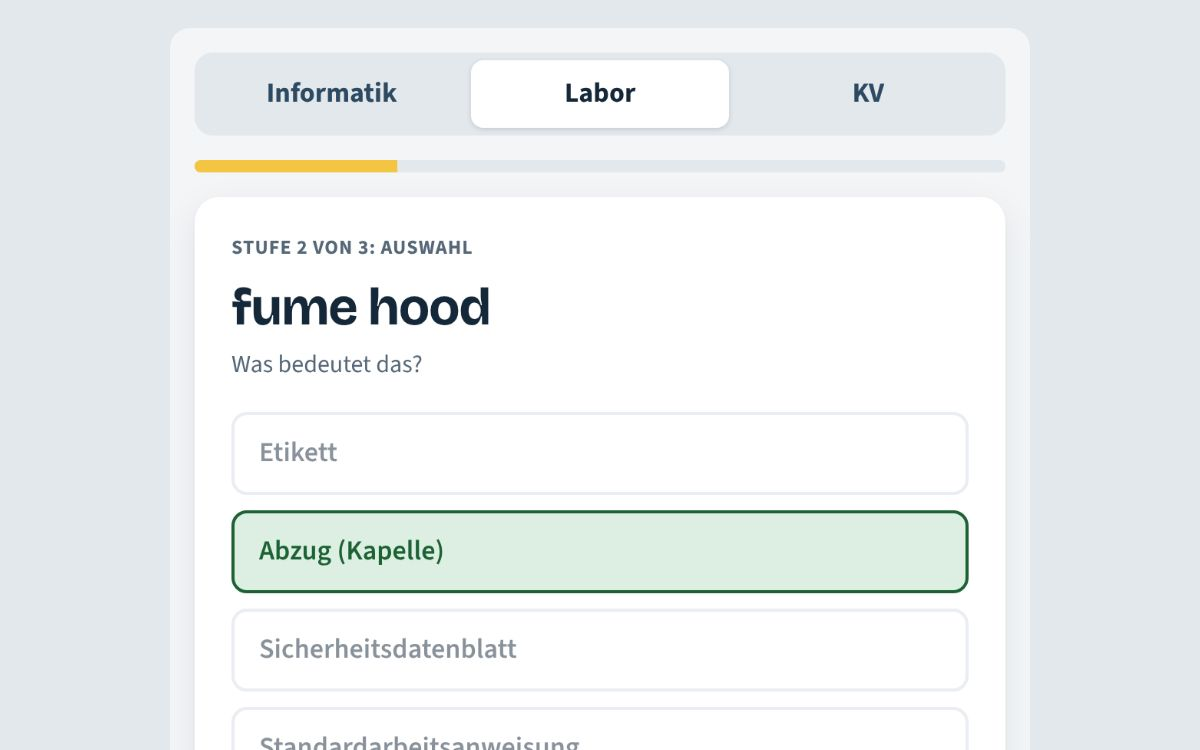
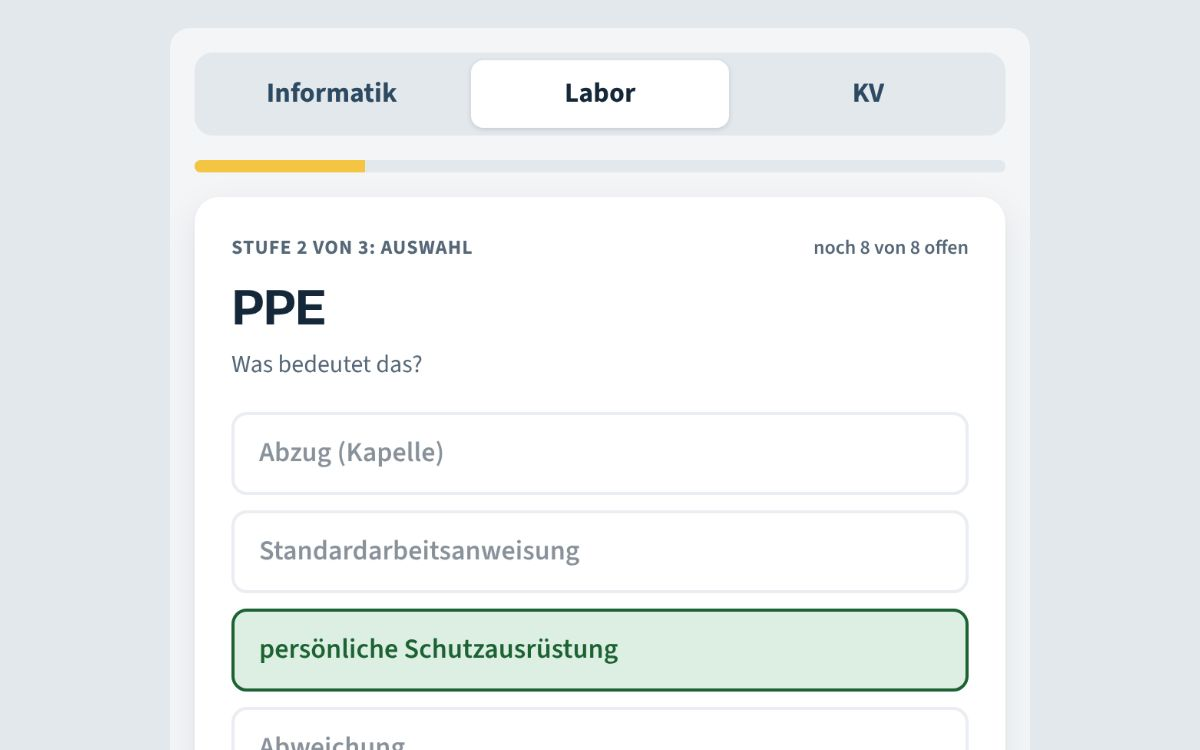
Roche-Seite: Prototypen nach Lernenden-Test korrigiert, vier Ideen
Claude-Session: https://claude.ai/code/session_014XkfFDuSjJmJmkreTr4ADN

diff --git a/roche/fachbegriffe.html b/roche/fachbegriffe.html
@@ -19,13 +19,14 @@ h1{font-family:"Bricolage Grotesque",sans-serif;font-size:28px;margin:0 0 4px;le
 .bar{height:8px;background:#E3E8ED;border-radius:99px;overflow:hidden;margin-bottom:16px}
 .bar i{display:block;height:100%;background:var(--signal);width:0;transition:width .3s}
 .card{background:var(--white);border-radius:16px;padding:24px;box-shadow:0 1px 2px rgba(21,40,58,.06),0 8px 24px rgba(21,40,58,.08)}
-.stage{font-size:13px;font-weight:700;color:var(--muted);letter-spacing:.04em;text-transform:uppercase;margin-bottom:10px}
+.stage{display:flex;justify-content:space-between;gap:12px;flex-wrap:wrap;font-size:13px;font-weight:700;color:var(--muted);letter-spacing:.04em;text-transform:uppercase;margin-bottom:10px}
 .term{font-family:"Bricolage Grotesque",sans-serif;font-size:34px;line-height:1.1;margin:0 0 8px;letter-spacing:-.02em;overflow-wrap:anywhere;outline:none}
 .hint{color:var(--muted);font-size:16px;margin:0 0 18px}
 .opts{display:grid;gap:10px}
 button{font:inherit}
 .opt{text-align:left;padding:12px 16px;border-radius:10px;border:2px solid var(--line);background:var(--white);color:var(--ink);cursor:pointer;font-weight:600}
-.opt:hover:not(:disabled){border-color:var(--ink)}
+@media (hover:hover){.opt:hover:not(:disabled){border-color:var(--ink)}}
+.stage .left{text-transform:none;letter-spacing:0;font-weight:600}
 .opt:disabled{cursor:default;color:var(--ink)}
 .opt:disabled:not(.ok):not(.bad){opacity:.5}
 .opt.ok{background:var(--ok-bg);border-color:var(--ok);color:var(--ok)}
@@ -60,52 +61,52 @@ input[type=text]:focus{outline:3px solid var(--signal);border-color:var(--ink)}
   </div>
   <div class="bar" aria-hidden="true"><i id="bar"></i></div>
   <div class="card" id="card" aria-live="polite"></div>
-  <p class="note">Beispielinhalt für die Idee. Die Begriffe würde ich gemeinsam mit den Berufsbildnerinnen und Berufsbildnern auswählen. Am besten mit Ton.</p>
+  <p class="note">Unabhängiger Prototyp mit Beispielinhalt, nicht von Roche. Die Begriffe würde ich gemeinsam mit den Berufsbildnerinnen und Berufsbildnern auswählen. Am besten mit Ton.</p>
 </div>
 <script>
 (function(){
   if(location.search.indexOf('embed')>-1)document.documentElement.classList.add('embed');
   var SETS={
     it:[
-      ["requirement","Anforderung","The customer added a new requirement for the login page."],
-      ["bug","Programmfehler","We found a bug in the payment form."],
-      ["to deploy","eine Anwendung bereitstellen","We deploy the new version every Monday."],
-      ["repository","zentrale Ablage für Code und seine Versionen","The code is stored in a shared repository."],
-      ["user story","Wunsch aus Sicht der Nutzenden","Each user story describes what a user needs."],
-      ["to troubleshoot","einen Fehler eingrenzen und beheben","First, try to troubleshoot the network connection."],
-      ["backup","Datensicherung","We make a backup every night."],
-      ["password reset","Passwort zurücksetzen","The user asked for a password reset."]
+      ["requirement","Anforderung","The customer added a new requirement for the login page.",[],"req"],
+      ["bug","Programmfehler","We found a bug in the payment form.",[],"err"],
+      ["to deploy","eine Anwendung bereitstellen","We deploy the new version every Monday.",[]],
+      ["repository","zentrale Ablage für Code und seine Versionen","The code is stored in a shared repository.",["repo"]],
+      ["user story","Wunsch aus Sicht der Nutzenden","Each user story describes what a user needs.",[],"req"],
+      ["to troubleshoot","einen Fehler eingrenzen und beheben","First, try to troubleshoot the network connection.",[],"err"],
+      ["backup","Datensicherung","We make a backup every night.",[]],
+      ["password reset","Passwort zurücksetzen","The user asked for a password reset.",["reset password"]]
     ],
     lab:[
-      ["sample","Probe","Please label each sample before you store it."],
-      ["fume hood","Abzug (Kapelle)","Work with solvents only under the fume hood."],
-      ["deviation","Abweichung","Report every deviation to your supervisor."],
-      ["batch record","Chargenprotokoll","All steps are documented in the batch record."],
-      ["SOP","Standardarbeitsanweisung","Follow the SOP step by step."],
-      ["safety data sheet","Sicherheitsdatenblatt","Check the safety data sheet before you start."],
-      ["PPE","persönliche Schutzausrüstung","Put on your PPE before you enter the lab."],
-      ["label","Etikett","The label shows the date and your initials."]
+      ["sample","Probe","Please label each sample before you store it.",["specimen"]],
+      ["fume hood","Abzug (Kapelle)","Work with solvents only in the fume hood.",[]],
+      ["deviation","Abweichung","Report every deviation to your supervisor.",[]],
+      ["lab notebook","Laborjournal","Write every result in your lab notebook.",["laboratory notebook","lab journal"]],
+      ["SOP","Standardarbeitsanweisung","Follow the SOP step by step.",["standard operating procedure"]],
+      ["safety data sheet","Sicherheitsdatenblatt","Check the safety data sheet before you start.",["sds"]],
+      ["PPE","persönliche Schutzausrüstung","Put on your PPE before you enter the lab.",["personal protective equipment"]],
+      ["label","Etikett","The label shows the date and your initials.",[]]
     ],
     kv:[
-      ["invoice","Rechnung","The invoice is due in 30 days."],
-      ["purchase order","Bestellung","Please create a purchase order for the new chairs."],
-      ["meeting minutes","Sitzungsprotokoll","Please send the meeting minutes to the team."],
-      ["deadline","Frist","The deadline for the report is Friday."],
-      ["approval","Freigabe","The order needs approval from the team lead."],
-      ["supplier","Lieferant","We compared offers from three suppliers."],
-      ["cost centre","Kostenstelle","Which cost centre should I book this on?","cost center"],
-      ["attachment","Anhang","You will find the offer in the attachment."]
+      ["invoice","Rechnung","The invoice is due in 30 days.",["bill"]],
+      ["purchase order","Bestellung","Please create a purchase order for the new chairs.",["order","po"]],
+      ["meeting minutes","Sitzungsprotokoll","Please send the meeting minutes to the team.",["minutes"]],
+      ["deadline","Frist","The deadline for the report is Friday.",[]],
+      ["approval","Freigabe","The order needs approval from the team lead.",[]],
+      ["supplier","Lieferant","We compared offers from three suppliers.",["vendor"]],
+      ["cost centre","Kostenstelle","Which cost centre should I charge this to?",["cost center"]],
+      ["attachment","Anhang","You will find the offer in the attachment.",[]]
     ]
   };
   var STAGES=["Karte","Auswahl","Schreiben"];
   var card=document.getElementById('card'),bar=document.getElementById('bar');
-  var job='it',deck=[],current=null,lastId=-1,set=[];
+  var job='',decks={},deck=[],current=null,lastId=-1,set=[],shownAt=0;
   function say(t){try{var u=new SpeechSynthesisUtterance(t);u.lang='en-GB';u.rate=.95;speechSynthesis.cancel();speechSynthesis.speak(u)}catch(e){}}
-  function norm(s){return s.trim().toLowerCase().replace(/\s+/g,' ').replace(/^to /,'').replace(/-/g,' ')}
+  function norm(s){return s.trim().toLowerCase().replace(/^to\s+/,'').replace(/[^a-z0-9äöü]/g,'')}
   function dist(a,b){var m=[],i,j;for(i=0;i<=a.length;i++){m[i]=[i]}for(j=0;j<=b.length;j++){m[0][j]=j}for(i=1;i<=a.length;i++)for(j=1;j<=b.length;j++)m[i][j]=Math.min(m[i-1][j]+1,m[i][j-1]+1,m[i-1][j-1]+(a[i-1]===b[j-1]?0:1));return m[a.length][b.length]}
   function stems(s){return s.toLowerCase().split(/[^a-zäöüé]+/).filter(function(w){return w.length>=5}).map(function(w){return w.slice(0,5)})}
   function shuffle(a){return a.map(function(x){return [Math.random(),x]}).sort(function(p,q){return p[0]-q[0]}).map(function(p){return p[1]})}
-  function start(j){job=j;set=SETS[j];deck=set.map(function(w,i){return {en:w[0],de:w[1],ex:w[2],alt:w[3],lvl:0,id:i}});lastId=-1;next(true)}
+  function start(j,fresh){if(j===job&&!fresh)return;job=j;set=SETS[j];if(fresh||!decks[j])decks[j]=set.map(function(w,i){return {en:w[0],de:w[1],ex:w[2],alt:w[3]||[],grp:w[4]||null,lvl:0,id:i}});deck=decks[j];lastId=-1;next(true)}
   function progress(){var s=deck.reduce(function(a,c){return a+c.lvl},0);bar.style.width=Math.round(s/(deck.length*3)*100)+'%'}
   function pick(){
     var open=deck.filter(function(c){return c.lvl<3});if(!open.length)return null;
@@ -115,8 +116,9 @@ input[type=text]:focus{outline:3px solid var(--signal);border-color:var(--ink)}
     return pool[Math.floor(Math.random()*pool.length)];
   }
   function next(noFocus){progress();current=pick();if(!current)return done();lastId=current.id;[showCard,showChoice,showWrite][current.lvl]();if(!noFocus){var t=card.querySelector('.term');if(t&&current.lvl<2)t.focus()}post()}
-  function head(){return '<div class="stage">Stufe '+(current.lvl+1)+' von 3: '+STAGES[current.lvl]+'</div>'}
+  function head(){var open=deck.filter(function(c){return c.lvl<3}).length;return '<div class="stage"><span>Stufe '+(current.lvl+1)+' von 3: '+STAGES[current.lvl]+'</span><span class="left">noch '+open+' von '+deck.length+' offen</span></div>'}
   function later(id){setTimeout(function(){var el=document.getElementById(id);if(el)el.focus()},0)}
+  function onNext(){var b=document.getElementById('nx');shownAt=Date.now();b.onclick=function(){if(Date.now()-shownAt<450)return;next()}}
   function showCard(){
     card.innerHTML=head()+'<p class="term" tabindex="-1">'+current.en+'</p><p class="hint">'+current.ex+'</p><div class="row"><button class="btn ghost" id="sp">Anhören</button><button class="btn" id="rv">Bedeutung zeigen</button></div><div class="feedback" id="fb"></div>';
     document.getElementById('sp').onclick=function(){say(current.en)};
@@ -124,37 +126,41 @@ input[type=text]:focus{outline:3px solid var(--signal);border-color:var(--ink)}
   }
   function showChoice(){
     var own=stems(current.de);
-    var others=shuffle(set.map(function(w){return w[1]}).filter(function(d){return d!==current.de&&!stems(d).some(function(s){return own.indexOf(s)>-1})})).slice(0,3);
+    var others=shuffle(set.filter(function(w){return w[1]!==current.de&&!(current.grp&&w[4]===current.grp)&&!stems(w[1]).some(function(s){return own.indexOf(s)>-1})}).map(function(w){return w[1]})).slice(0,3);
     var opts=shuffle(others.concat([current.de]));
     card.innerHTML=head()+'<p class="term" tabindex="-1">'+current.en+'</p><p class="hint">Was bedeutet das?</p><div class="opts">'+opts.map(function(o){return '<button class="opt">'+o+'</button>'}).join('')+'</div><div class="feedback" id="fb"></div>';
     [].forEach.call(card.querySelectorAll('.opt'),function(b){b.onclick=function(){
       var ok=b.textContent===current.de;[].forEach.call(card.querySelectorAll('.opt'),function(x){x.disabled=true;if(x.textContent===current.de)x.classList.add('ok')});
       if(!ok)b.classList.add('bad');
       var fb=document.getElementById('fb');fb.className='feedback '+(ok?'ok':'bad');fb.innerHTML=(ok?'Richtig.':'Noch nicht. Richtig ist: '+current.de)+'<div class="ex">'+current.ex+'</div><div class="row"><button class="btn" id="nx">Weiter</button></div>';
-      current.lvl=ok?2:0;document.getElementById('nx').onclick=function(){next()};later('nx');post();
+      current.lvl=ok?2:0;onNext();later('nx');post();
     }});
   }
   function showWrite(){
-    card.innerHTML=head()+'<p class="term">'+current.de+'</p><p class="hint">Schreib den englischen Begriff.</p><input type="text" id="in" autocomplete="off" autocapitalize="off" spellcheck="false" aria-label="Englischer Begriff"><div class="row"><button class="btn" id="ck">Prüfen</button><button class="btn ghost" id="tip">Tipp</button></div><div class="feedback" id="fb"></div>';
+    var tries=0;
+    card.innerHTML=head()+'<p class="term">'+current.de+'</p><p class="hint" id="wh">Schreib den englischen Begriff.</p><input type="text" id="in" autocomplete="off" autocapitalize="off" spellcheck="false" aria-label="Englischer Begriff" aria-describedby="wh"><div class="row"><button class="btn" id="ck">Prüfen</button><button class="btn ghost" id="tip">Tipp</button></div><div class="feedback" id="fb"></div>';
     var inp=document.getElementById('in');later('in');
-    document.getElementById('tip').onclick=function(){var w=norm(current.en);inp.placeholder=w.charAt(0)+'… ('+w.length+' Zeichen)';inp.focus()};
+    document.getElementById('tip').onclick=function(){var w=current.en.replace(/^to /,'');var n=w.replace(/[^A-Za-z]/g,'').length;document.getElementById('wh').textContent='Tipp: beginnt mit «'+w.charAt(0)+'», '+n+' Buchstaben'+(/ /.test(w)?', zwei Wörter':'')+'.';inp.focus()};
     function check(){
       if(inp.disabled)return;
-      var v=norm(inp.value),target=norm(current.en),alt=current.alt?norm(current.alt):null;
-      var ok=v===target||v===alt,d=dist(v,target),near=!ok&&v.length>2&&d<=2;
-      var fb=document.getElementById('fb');fb.className='feedback '+(ok?'ok':near?'mid':'bad');
-      fb.innerHTML=(ok?'Richtig.':near?'Fast. Richtig geschrieben: '+current.en:'Noch nicht. Richtig ist: '+current.en)+'<div class="ex">'+current.ex+'</div><div class="row"><button class="btn" id="nx">Weiter</button></div>';
-      say(current.en);current.lvl=ok?3:1;inp.disabled=true;document.getElementById('ck').disabled=true;
-      document.getElementById('nx').onclick=function(){next()};later('nx');post();
+      var v=norm(inp.value);if(!v){inp.focus();return}
+      var target=norm(current.en),ok=v===target||current.alt.some(function(a){return norm(a)===v});
+      var limit=target.length<=5?1:2,near=!ok&&dist(v,target)<=limit;
+      var fb=document.getElementById('fb');
+      if(near&&tries===0){tries++;fb.className='feedback mid';fb.textContent='Fast. Schau die Schreibweise nochmals an.';inp.select();post();return}
+      fb.className='feedback '+(ok?'ok':'bad');
+      fb.innerHTML=(ok?'Richtig.':'Noch nicht. Richtig ist: '+current.en)+'<div class="ex">'+current.ex+'</div><div class="row"><button class="btn" id="nx">Weiter</button></div>';
+      say(current.en);current.lvl=ok?3:1;inp.disabled=true;document.getElementById('ck').disabled=true;document.getElementById('tip').disabled=true;
+      onNext();later('nx');post();
     }
     document.getElementById('ck').onclick=check;
     inp.onkeydown=function(e){if(e.key==='Enter'){e.preventDefault();check()}};
   }
-  function done(){progress();card.innerHTML='<div class="done"><h2 tabindex="-1" id="dh">Runde geschafft</h2><p>Alle acht Begriffe sitzen. In der echten Version kämen sie nach einigen Tagen zur Wiederholung zurück, und die Lernenden sähen ihren Fortschritt über mehrere Wochen.</p><div class="row"><button class="btn" id="again">Neue Runde</button></div></div>';document.getElementById('again').onclick=function(){start(job)};later('dh');post()}
+  function done(){progress();card.innerHTML='<div class="done"><h2 tabindex="-1" id="dh">Runde geschafft</h2><p>Alle acht Begriffe sitzen. In der echten Version kämen sie nach einigen Tagen zur Wiederholung zurück, und die Lernenden sähen ihren Fortschritt über mehrere Wochen.</p><div class="row"><button class="btn" id="again">Neue Runde</button></div></div>';document.getElementById('again').onclick=function(){start(job,true)};later('dh');post()}
   [].forEach.call(document.querySelectorAll('.job'),function(b){b.onclick=function(){[].forEach.call(document.querySelectorAll('.job'),function(x){x.setAttribute('aria-pressed',String(x===b))});start(b.dataset.job)}});
   function post(){try{parent.postMessage({protoH:Math.ceil(document.querySelector('.wrap').getBoundingClientRect().height)},'*')}catch(e){}}
   if(window.ResizeObserver)new ResizeObserver(post).observe(document.body);
-  start('it');
+  start('it',true);
 })();
 </script>
 </body>

diff --git a/roche/ki-check.html b/roche/ki-check.html
@@ -21,7 +21,7 @@ h1{font-family:"Bricolage Grotesque",sans-serif;font-size:28px;margin:0 0 4px;le
 button{font:inherit}
 .opt{padding:14px 12px;border-radius:10px;border:2px solid var(--line);background:var(--white);color:var(--ink);cursor:pointer;font-weight:700;text-align:center}
 .opt small{display:block;font-weight:400;color:var(--muted);font-size:14px;margin-top:2px}
-.opt:hover:not(:disabled){border-color:var(--ink)}
+@media (hover:hover){.opt:hover:not(:disabled){border-color:var(--ink)}}
 .opt:disabled{cursor:default;color:var(--ink)}
 .opt:disabled:not(.ok):not(.bad){opacity:.5}
 .opt.ok{background:var(--ok-bg);border-color:var(--ok);color:var(--ok)}
@@ -40,23 +40,24 @@ button{font:inherit}
 <body>
 <div class="wrap">
   <h1>KI-Check für Lernende</h1>
-  <p class="sub">Prototyp: Darf ich hier KI nutzen? Sieben Situationen aus dem Alltag in der Lehre, jeweils mit kurzer Begründung.</p>
+  <p class="sub">Prototyp: Darf ich hier KI nutzen? Acht Situationen aus dem Alltag in der Lehre, jeweils mit kurzer Begründung.</p>
   <div class="card" id="card" aria-live="polite"></div>
-  <p class="note">Beispielinhalt für die Idee. Die verbindlichen Regeln würden aus den Richtlinien des Betriebs übernommen.</p>
+  <p class="note">Unabhängiger Prototyp mit Beispielinhalt, nicht von Roche. Die verbindlichen Regeln würden aus den Richtlinien des Betriebs übernommen.</p>
 </div>
 <script>
 (function(){
   if(location.search.indexOf('embed')>-1)document.documentElement.classList.add('embed');
   var C=[
-    ["Du sollst einen Fehler in deinem Code finden. Du lässt dir von der KI erklären, was die Fehlermeldung bedeutet.","ja","Gute Nutzung. Du lässt dir etwas erklären und behebst den Fehler danach selbst. So lernst du dabei."],
-    ["Du kopierst eine Liste mit Namen und Personalnummern von Mitarbeitenden in einen öffentlichen KI-Chat, um sie sortieren zu lassen.","nein","Personendaten und interne Daten gehören nicht in öffentliche KI-Werkzeuge. Für solche Aufgaben gibt es die Werkzeuge, die der Betrieb freigegeben hat."],
-    ["Die KI berechnet dir eine Verdünnungsreihe. Du überträgst die Werte direkt ins Laborjournal.","teil","Die KI kann dir den Rechenweg zeigen. Die Werte rechnest du aber selbst nach, bevor sie ins Journal kommen. Für das, was im Laborjournal steht, bist du verantwortlich."],
+    ["Du lässt dir von der KI erklären, was eine Fehlermeldung allgemein bedeutet. Deinen Code kopierst du nicht hinein.","ja","Gute Nutzung. Du verstehst die Meldung und behebst den Fehler danach selbst. So lernst du dabei."],
+    ["Du kopierst eine Liste mit Namen und Personalnummern von Mitarbeitenden in einen öffentlichen KI-Chat, um sie sortieren zu lassen.","nein","Personaldaten bearbeitest du nur mit Berechtigung, und in einen öffentlichen KI-Chat gehören sie nie. Zum Sortieren reicht eine Tabelle."],
+    ["Du willst dir einen Abschnitt aus dem Code deines Teams erklären lassen. Der Betrieb hat dafür ein KI-Werkzeug freigegeben.","teil","Das freigegebene Werkzeug ist der richtige Ort. Kläre aber zuerst, ob dieser Code dort verwendet werden darf. Im Zweifel fragst du nach."],
+    ["Du lässt dir von der KI eine Verdünnungsreihe berechnen und willst die Werte ins Laborjournal eintragen.","nein","Im Laborjournal steht nur, was du nach SOP selbst gerechnet und gemessen hast. Die KI darf dir vorher erklären, wie eine Verdünnungsreihe funktioniert."],
+    ["Du übst für eine Prüfung in der Berufsfachschule und lässt dir von der KI zehn Übungsfragen stellen.","ja","Sehr gut. Die KI als Übungspartnerin hilft beim Lernen. Prüf aber die Antworten, auch KI macht Fehler."],
     ["Für die Lerndokumentation schreibt die KI deinen ganzen Wochenbericht.","nein","Die Lerndokumentation zeigt, was du gelernt hast. Wenn die KI sie schreibt, zeigt sie das nicht mehr. Ideen sammeln oder die Rechtschreibung prüfen lassen ist in Ordnung."],
-    ["Du übst für eine Prüfung in der Berufsfachschule und lässt dir von der KI zehn Übungsfragen stellen.","ja","Sehr gut. Die KI als Übungspartnerin hilft beim Lernen. Prüfe aber die Antworten, auch KI macht Fehler."],
-    ["Die KI schlägt eine Lösung vor, die du nicht verstehst. Du gibst sie trotzdem ab, weil sie funktioniert.","nein","Funktionieren reicht nicht. Lass dir die Lösung Schritt für Schritt erklären, bis du sie selbst erklären kannst. Erst dann gibst du sie ab."],
-    ["Du schreibst eine E-Mail an ein Projektteam im Ausland. Mit dem KI-Werkzeug, das der Betrieb freigegeben hat, übersetzt du sie ins Englische und liest sie vor dem Senden durch.","ja","In Ordnung. Du nutzt ein freigegebenes Werkzeug und bleibst für den Inhalt verantwortlich. Darum ist das Durchlesen vor dem Senden wichtig."]
+    ["Du schreibst eine E-Mail an ein Projektteam im Ausland. Mit dem KI-Werkzeug, das der Betrieb freigegeben hat, übersetzt du sie ins Englische und liest sie vor dem Senden durch.","ja","In Ordnung. Du nutzt ein freigegebenes Werkzeug und bleibst für den Inhalt verantwortlich. Darum ist das Durchlesen vor dem Senden wichtig."],
+    ["Die KI schlägt eine Lösung vor, die du nicht verstehst. Du gibst sie trotzdem ab, weil sie funktioniert.","nein","Funktionieren reicht nicht. Lass dir die Lösung Schritt für Schritt erklären, bis du sie selbst erklären kannst. Erst dann gibst du sie ab."]
   ];
-  var L={ja:["Ja","sinnvoll"],teil:["Mit Vorsicht","nur teilweise"],nein:["Nein","nicht erlaubt"]};
+  var L={ja:["Ja","passt so"],teil:["Mit Vorsicht","nur unter Bedingungen"],nein:["Nein","so nicht"]};
   var i=0,score=0,card=document.getElementById('card');
   function later(id){setTimeout(function(){var el=document.getElementById(id);if(el)el.focus()},0)}
   function show(focus){
@@ -68,7 +69,7 @@ button{font:inherit}
       [].forEach.call(card.querySelectorAll('.opt'),function(x){x.disabled=true;if(x.dataset.k===c[1])x.classList.add('ok')});
       if(!ok)b.classList.add('bad');
       document.getElementById('fb').innerHTML='<b>'+(ok?'Richtig eingeschätzt.':'Besser: '+L[c[1]][0]+'.')+'</b>'+c[2]+'<br><button class="btn" id="nx">Weiter</button>';
-      document.getElementById('nx').onclick=function(){i++;show(true)};later('nx');post();
+      var t0=Date.now();document.getElementById('nx').onclick=function(){if(Date.now()-t0<450)return;i++;show(true)};later('nx');post();
     }});
     if(focus)later('cs');post();
   }

diff --git a/roche/index.html b/roche/index.html
@@ -275,10 +275,12 @@ footer p{max-width:none;margin:0}
 }
 @media (max-width:600px){.pair-row .wie{padding:22px 20px}}
 #prototypen .tabs{grid-template-columns:repeat(2,minmax(0,1fr))}
-#prototypen .screen{aspect-ratio:auto;height:600px;background:#F3F5F7;transition:height .2s}
+#proto-stage{scroll-margin-top:84px}
+#prototypen .screen iframe[hidden]{display:none}
+#prototypen .screen{aspect-ratio:auto;height:560px;background:#F3F5F7;transition:height .2s}
 #prototypen .stage-foot p{min-height:0}
 @media (max-width:900px){#prototypen .tabs{display:grid}#prototypen .tab{min-width:0}}
-@media (max-width:600px){#prototypen .screen{height:620px}}
+
 </style>
 </head>
 <body>
@@ -327,8 +329,8 @@ footer p{max-width:none;margin:0}
           <p class="lab">Für Roche</p>
           <h2>Fachbegriff-Trainer für Lernende</h2>
           <p>Fachbegriffe und Englisch, die Lernende im Betrieb täglich brauchen, in fünf Minuten auf dem Handy. Jeder Beruf hat seine eigene Liste. Welche Begriffe hineinkommen, entscheiden die Berufsbildnerinnen und Berufsbildner.</p>
-          <figure><img class="shot" src="../img/roche-fach.jpg" alt="Prototyp Fachbegriff-Trainer: Auswahlfrage zum Begriff fume hood" loading="lazy"><figcaption><b>Prototyp.</b> Labor, zweite Stufe: Was heisst «fume hood»?</figcaption></figure>
-          <a class="btn primary" href="#screen" data-proto="fach">Prototyp ausprobieren</a>
+          <figure><img class="shot" src="../img/roche-fach.jpg" alt="Prototyp Fachbegriff-Trainer: Auswahlfrage im Labor-Wortschatz" loading="lazy"><figcaption><b>Prototyp.</b> Labor, zweite Stufe: Begriff gelesen, Bedeutung gewählt.</figcaption></figure>
+          <a class="btn primary" href="#proto-stage" data-proto="fach">Prototyp ausprobieren</a>
         </div>
       </article>
 
@@ -347,7 +349,7 @@ footer p{max-width:none;margin:0}
           <h2>Ein KI-Führerschein für Lernende</h2>
           <p>Zuerst würde ich mit den Verantwortlichen klären, was Lernende mit KI dürfen. Daraus wird eine kurze Einheit mit Fällen aus der Lehre, vom Code bis zum Laborjournal. Zum Abschluss löst jede und jeder eine eigene Aufgabe mit KI und erklärt das Vorgehen.</p>
           <figure><img class="shot" src="../img/roche-ki.jpg" alt="Prototyp KI-Check: Situation mit einer Verdünnungsreihe" loading="lazy"><figcaption><b>Prototyp.</b> Darf ein Wert aus der KI ins Laborjournal? Nein, und die Begründung steht gleich darunter.</figcaption></figure>
-          <a class="btn primary" href="#screen" data-proto="ki">Prototyp ausprobieren</a>
+          <a class="btn primary" href="#proto-stage" data-proto="ki">Prototyp ausprobieren</a>
         </div>
       </article>
 
@@ -389,7 +391,7 @@ footer p{max-width:none;margin:0}
         <h2>Selbst ausprobieren</h2>
         <p>Zwei der Ideen als unabhängige Prototypen mit Beispielinhalten, nicht von Roche. Die Lernenden werden darin geduzt.</p>
       </div>
-      <div class="stage">
+      <div class="stage" id="proto-stage">
         <div class="tabs" role="tablist" aria-label="Prototypen">
           <button class="tab" role="tab" id="tab-fach" aria-selected="true" aria-controls="screen" data-p="fach">Fachbegriff-Trainer<small>Informatik, Labor, KV</small></button>
           <button class="tab" role="tab" id="tab-ki" aria-selected="false" tabindex="-1" aria-controls="screen" data-p="ki">KI-Check<small>Darf ich hier KI nutzen?</small></button>
@@ -423,21 +425,24 @@ footer p{max-width:none;margin:0}
 
 <script>
 (function(){
-  var P={fach:{src:'fachbegriffe.html',title:'Prototyp Fachbegriff-Trainer',hint:'Acht Begriffe in drei Stufen, wählbar nach Beruf. Am besten mit Ton.'},ki:{src:'ki-check.html',title:'Prototyp KI-Check',hint:'Sieben Situationen aus dem Alltag in der Lehre, jeweils mit kurzer Begründung.'}};
+  var P={fach:{src:'fachbegriffe.html',title:'Prototyp Fachbegriff-Trainer',hint:'Acht Begriffe in drei Stufen, wählbar nach Beruf. Am besten mit Ton.'},ki:{src:'ki-check.html',title:'Prototyp KI-Check',hint:'Acht Situationen aus dem Alltag in der Lehre, jeweils mit kurzer Begründung.'}};
   var tabs=[].slice.call(document.querySelectorAll('#prototypen .tab'));
-  var frame=document.getElementById('pframe'),screen=document.getElementById('screen'),cur='fach';
+  var screen=document.getElementById('screen'),frames={fach:document.getElementById('pframe')},hs={},cur='fach';
+  function size(){if(hs[cur])screen.style.height=Math.max(320,Math.min(1100,hs[cur]+8))+'px'}
   function show(k,focusTab){
     tabs.forEach(function(t){var on=t.dataset.p===k;t.setAttribute('aria-selected',String(on));t.tabIndex=on?0:-1;if(on&&focusTab)t.focus()});
-    if(k!==cur){frame.src=P[k].src+'?embed';frame.title=P[k].title;cur=k}
+    if(!frames[k]){var f=document.createElement('iframe');f.src=P[k].src+'?embed';f.title=P[k].title;screen.appendChild(f);frames[k]=f}
+    Object.keys(frames).forEach(function(n){frames[n].hidden=n!==k});
+    cur=k;size();
     screen.setAttribute('aria-labelledby','tab-'+k);
     document.getElementById('phint').textContent=P[k].hint;document.getElementById('popen').href=P[k].src;
   }
   tabs.forEach(function(t,i){
     t.addEventListener('click',function(){show(t.dataset.p)});
-    t.addEventListener('keydown',function(e){if(e.key==='ArrowRight'||e.key==='ArrowLeft'){e.preventDefault();var n=tabs[(i+(e.key==='ArrowRight'?1:tabs.length-1))%tabs.length];show(n.dataset.p,true)}});
+    t.addEventListener('keydown',function(e){var n=null;if(e.key==='ArrowRight')n=tabs[(i+1)%tabs.length];else if(e.key==='ArrowLeft')n=tabs[(i+tabs.length-1)%tabs.length];else if(e.key==='Home')n=tabs[0];else if(e.key==='End')n=tabs[tabs.length-1];if(n){e.preventDefault();show(n.dataset.p,true)}});
   });
   document.querySelectorAll('[data-proto]').forEach(function(a){a.addEventListener('click',function(){show(a.dataset.proto)})});
-  window.addEventListener('message',function(e){if(e.source===frame.contentWindow&&e.data&&e.data.protoH){screen.style.height=Math.max(600,Math.min(1100,e.data.protoH+8))+'px'}});
+  window.addEventListener('message',function(e){if(!e.data||!e.data.protoH)return;Object.keys(frames).forEach(function(n){if(frames[n].contentWindow===e.source)hs[n]=e.data.protoH});size()});
 })();
 </script>
 </body>
